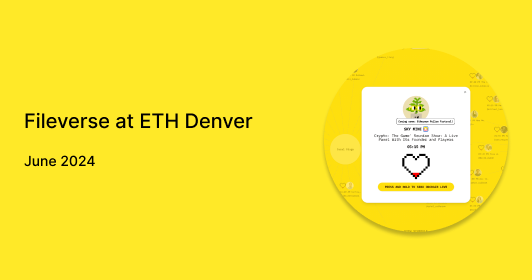
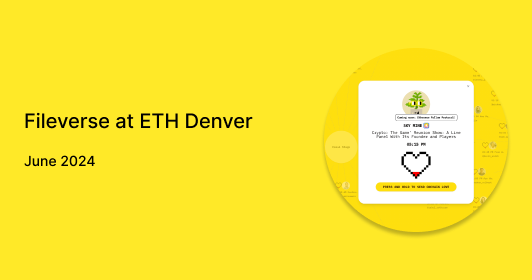
feat: add images

Changed region(s): [[0.6015, 0.2571, 0.9624, 0.7429], [0.7519, 0.8, 0.812, 0.8286]]

diff --git a/src/app/frames/frame-image/route.tsx b/src/app/frames/frame-image/route.tsx
@@ -1,47 +1,63 @@
-import { NextRequest } from 'next/server';
-import { ImageResponse } from 'next/og';
+import {NextRequest} from 'next/server';
+import {ImageResponse} from 'next/og';
 
 export const GET = async (request: NextRequest) => {
     const searchParams = request.nextUrl.searchParams;
     const state = searchParams.get('state') || 'home';
+    const imageIndex = searchParams.get('imageIndex') ? parseInt(searchParams.get('imageIndex') as string) : 0;
 
     const teamMembers = [
-        { role: "Made for", handle: "@fileverse" },
-        { role: "PM", handle: "@constantin" },
-        { role: "UX", handle: "@pentacle" },
-        { role: "Dev", handle: "@vijay" },
+        {role: "Made for", handle: "@fileverse"},
+        {role: "PM", handle: "@constantin"},
+        {role: "UX", handle: "@pentacle"},
+        {role: "Dev", handle: "@vijay"},
+    ];
+
+    const imagePaths = [
+        '/fileverse/folio-01.png',
+        '/fileverse/folio-02.png',
+        '/fileverse/folio-03.png',
     ];
 
     let content;
     switch (state) {
         case 'home':
-            content = <div style={{ display: 'flex', justifyContent: 'center', alignItems: 'center' }}><h1>Welcome to Our Project</h1></div>;
+            content = (
+                <div style={{
+                    display: 'flex',
+                    flexDirection: 'column',
+                    justifyContent: 'center',
+                    alignItems: 'center',
+                    width: '100%',
+                    height: '100%',
+                    position: 'relative'
+                }}>
+                    <img
+                        src={`${process.env.NEXT_PUBLIC_HOST}/home-frame.png`}
+                        style={{width: '100%', height: '100%', objectFit: 'contain'}}
+                        alt="Fileverse at ETH Denver"
+                    />
+                </div>
+            );
             break;
         case 'images':
-            const imagePaths = [
-                '/fileverse/folio-01.png',
-                '/fileverse/folio-02.png',
-                '/fileverse/folio-03.png',
-            ];
-
             content = (
-                <div style={{ display: 'flex', flexDirection: 'column', alignItems: 'center', width: '100%', height: '100%', padding: '20px' }}>
-                    <div style={{ display: 'flex', justifyContent: 'space-around', width: '100%' }}>
-                        {imagePaths.map((imgPath, index) => (
-                            <img
-                                key={index}
-                                src={`${process.env.NEXT_PUBLIC_HOST}${imgPath}`}
-                                style={{ width: '100%', height: '100%', objectFit: 'cover' }}
-                                alt={`Image ${index + 1}`}
-                            />
-                        ))}
-                    </div>
-                </div>
+                <img
+                    src={`${process.env.NEXT_PUBLIC_HOST}${imagePaths[imageIndex]}`}
+                    style={{width: '100%', height: '100%', objectFit: 'contain'}}
+                    alt={`Image ${imageIndex + 1}`}
+                />
             );
             break;
         case 'credits':
             content = (
-                <div style={{ display: 'flex', flexDirection: 'column', alignItems: 'center' }}>
+                <div style={{
+                    display: 'flex',
+                    flexDirection: 'column',
+                    alignItems: 'center',
+                    justifyContent: 'center',
+                    height: '100%'
+                }}>
                     <h2>Credits</h2>
                     <p>Thank you to all contributors!</p>
                 </div>
@@ -49,12 +65,23 @@ export const GET = async (request: NextRequest) => {
             break;
         case 'team':
             content = (
-                <div style={{ display: 'flex', flexDirection: 'column', alignItems: 'center' }}>
+                <div style={{
+                    display: 'flex',
+                    flexDirection: 'column',
+                    alignItems: 'center',
+                    justifyContent: 'center',
+                    height: '100%'
+                }}>
                     <h2>Our Team</h2>
                     {teamMembers.map((member, index) => (
-                        <div key={index} style={{ display: 'flex', flexDirection: 'column', alignItems: 'center', marginBottom: '10px' }}>
-                            <p style={{ margin: 0 }}>{member.role}</p>
-                            <p style={{ margin: 0 }}>{member.handle}</p>
+                        <div key={index} style={{
+                            display: 'flex',
+                            flexDirection: 'column',
+                            alignItems: 'center',
+                            marginBottom: '10px'
+                        }}>
+                            <p style={{margin: 0}}>{member.role}</p>
+                            <p style={{margin: 0}}>{member.handle}</p>
                         </div>
                     ))}
                 </div>
@@ -62,19 +89,36 @@ export const GET = async (request: NextRequest) => {
             break;
         case 'stack':
             content = (
-                <div style={{ display: 'flex', flexDirection: 'column', alignItems: 'center' }}>
+                <div style={{
+                    display: 'flex',
+                    flexDirection: 'column',
+                    alignItems: 'center',
+                    justifyContent: 'center',
+                    height: '100%'
+                }}>
                     <h2>Our Tech Stack</h2>
                     <p>Details coming soon...</p>
                 </div>
             );
             break;
         default:
-            content = <div style={{ display: 'flex', justifyContent: 'center', alignItems: 'center' }}><h1>Welcome</h1></div>;
+            content = <div style={{display: 'flex', justifyContent: 'center', alignItems: 'center', height: '100%'}}>
+                <h1>Welcome</h1></div>;
     }
 
     return new ImageResponse(
         (
-            <div style={{ display: 'flex', flexDirection: 'column', alignItems: 'center', justifyContent: 'center', width: '100%', height: '100%', backgroundColor: 'yellow', fontSize: 24, fontWeight: 600 }}>
+            <div style={{
+                display: 'flex',
+                flexDirection: 'column',
+                alignItems: 'center',
+                justifyContent: 'center',
+                width: '100%',
+                height: '100%',
+                backgroundColor: 'yellow',
+                fontSize: 24,
+                fontWeight: 600
+            }}>
                 {content}
             </div>
         ),

diff --git a/src/app/frames/route.tsx b/src/app/frames/route.tsx
@@ -6,7 +6,7 @@ type FrameState = 'home' | 'images' | 'credits' | 'team' | 'stack' | 'endorse';
 const handleRequest = frames(async (ctx) => {
     const state = (ctx.searchParams.state as FrameState) || 'home';
     const imageIndex = parseInt(ctx.searchParams.imageIndex || '0', 10);
-    const totalImages = 5;
+    const totalImages = 3; // Changed to 3 as per the new requirement
 
     let buttons;
     switch (state) {
@@ -20,9 +20,9 @@ const handleRequest = frames(async (ctx) => {
         case 'images':
             buttons = [
                 <Button key="home" action="post" target={{ query: { state: 'home' } }}>Home</Button>,
-                <Button key="prev" action="post" target={{ query: { state: 'images', imageIndex: Math.max(0, imageIndex - 1).toString() } }}>Previous</Button>,
-                <Button key="next" action="post" target={{ query: { state: 'images', imageIndex: Math.min(totalImages - 1, imageIndex + 1).toString() } }}>Next</Button>,
-                <Button key="website" action="link" target="https://your-website.com">Website</Button>
+                <Button key="image1" action="post" target={{ query: { state: 'images', imageIndex: '0' } }}>Image 1</Button>,
+                <Button key="image2" action="post" target={{ query: { state: 'images', imageIndex: '1' } }}>Image 2</Button>,
+                <Button key="image3" action="post" target={{ query: { state: 'images', imageIndex: '2' } }}>Image 3</Button>
             ];
             break;
         case 'credits':

diff --git a/src/app/layout.tsx b/src/app/layout.tsx
@@ -14,8 +14,8 @@ const geistMono = localFont({
 });
 
 export const metadata: Metadata = {
-    title: "Create Next App",
-    description: "Generated by create next app",
+    title: "Pentafolio",
+    description: "Made by pentacle",
 };
 
 export default function RootLayout({
@@ -28,7 +28,7 @@ export default function RootLayout({
         <head>
             <meta property="og:title" content="Pentafolio"/>
             <meta property="fc:frame:post_url" content="https://folio-frame.vercel.app/"/>
-            <meta property="fc:frame" content="2" />
+            <meta property="fc:frame" content="" />
             <meta property="fc:frame:image" content="https://folio-frame.vercel.app/home-frame.png"/>
             <meta property="og:image" content="https://folio-frame.vercel.app/home-frame.png"/>
         </head>
